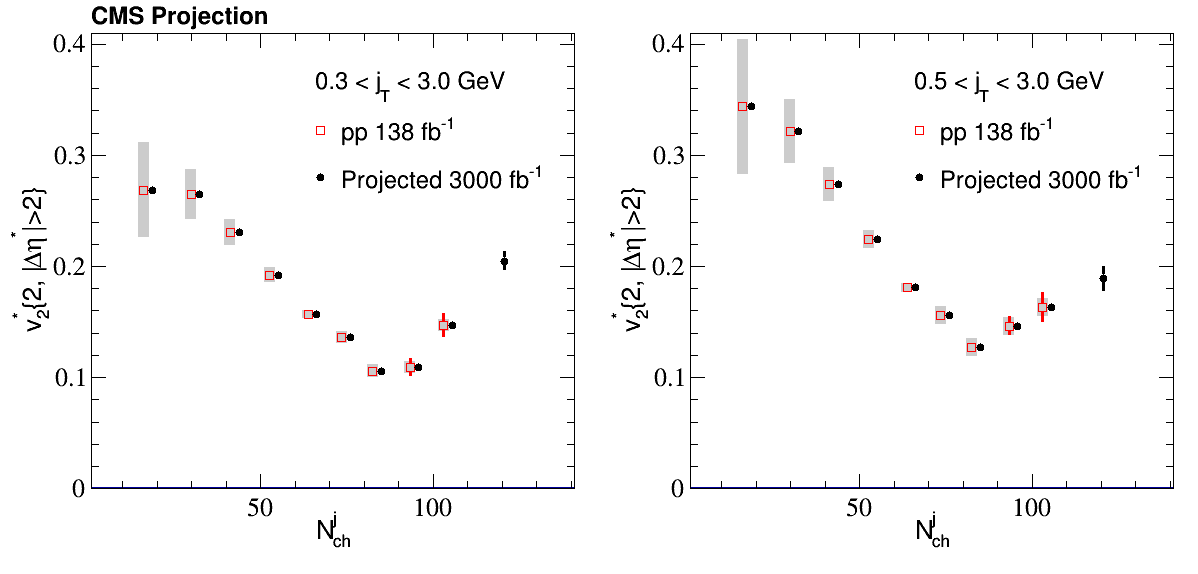
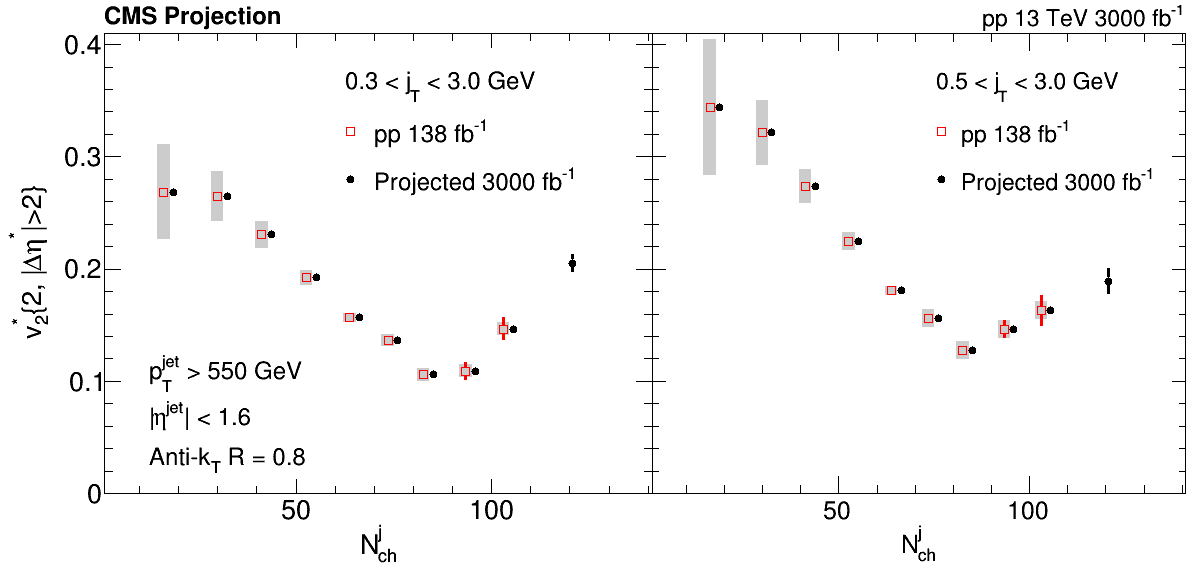
updated with comments

diff --git a/EUstrategy/projection_plot_vn_highNjets.C b/EUstrategy/projection_plot_vn_highNjets.C
@@ -48,9 +48,9 @@ void projection_plot_vn_highNjets(){
     cout<<Nch05[i]<<"  "<<v2_05[i]<<"  "<<v2_05_stat[i]<<"  "<<v2_05_stat_new[i]<<endl;
   }
 
-
+/*
   gStyle->SetPadLeftMargin(0.18);
-  gStyle->SetPadRightMargin(0.14);
+  //gStyle->SetPadRightMargin(0.14);
   gStyle->SetPadBottomMargin(0.10);
   gStyle->SetPadTopMargin(0.10);
   gStyle->SetOptStat(0);  // hide statistics box
@@ -62,7 +62,7 @@ void projection_plot_vn_highNjets(){
   gStyle->SetLabelOffset(0.01,"xyz"); // label offset (to fit bigger font
   gStyle->SetNdivisions(505,"xyz");
   gStyle->SetPalette(1);
-
+*/
   
   TCanvas* c_vn_jet;
   c_vn_jet = new TCanvas("c_vn_jet", "c_vn_jet", 1200, 600);
@@ -70,16 +70,20 @@ void projection_plot_vn_highNjets(){
   c_vn_jet->SetFrameFillColor(0);
   c_vn_jet->SetFrameBorderSize(0);
   c_vn_jet->SetFrameBorderMode(0);
-  gPad->SetTicks(-1);
+  c_vn_jet->SetLeftMargin(0.16);
+  c_vn_jet->SetBottomMargin(0.01);
+  c_vn_jet->SetTopMargin(0.01);
+  c_vn_jet->SetRightMargin(0.01);
+  //gPad->SetTicks(-1);
   gStyle->SetOptStat(0);
-  //c_vn_jet->Divide(2,1,0,0);
-  c_vn_jet->Divide(2,1);
+  c_vn_jet->Divide(2,1,0,0);
+  //c_vn_jet->Divide(2,1);
 
   c_vn_jet->cd(1);
-  gPad->SetLeftMargin(0.14);
+  gPad->SetLeftMargin(0.16);
   gPad->SetBottomMargin(0.14);
   gPad->SetTopMargin(0.05);
-  gPad->SetRightMargin(0.02);
+  //gPad->SetRightMargin(0.02);
   gPad->SetTicks(-1);
   
   
@@ -94,11 +98,13 @@ void projection_plot_vn_highNjets(){
   hist_1->GetYaxis()->SetTitleFont(42);
   hist_1->GetYaxis()->SetTitleSize(0.05);
   hist_1->GetYaxis()->SetLabelSize(0.05);
-  hist_1->GetYaxis()->SetTitleOffset(1.32);
+  hist_1->GetYaxis()->SetTitleOffset(1.43);
+  hist_1->GetYaxis()->SetNdivisions(505);
   hist_1->GetXaxis()->SetTitleFont(42);
   hist_1->GetXaxis()->SetTitleSize(0.05);
   hist_1->GetXaxis()->SetLabelSize(0.05);
-  hist_1->GetXaxis()->SetTitleOffset(0.9);
+  hist_1->GetXaxis()->SetTitleOffset(1.1);
+  hist_1->GetXaxis()->SetNdivisions(505);
   hist_1->SetTitle("");
   hist_1->SetMinimum(0.);
   hist_1->SetMaximum(0.41);
@@ -151,16 +157,19 @@ void projection_plot_vn_highNjets(){
   tex1->SetTextFont(42);
   tex1->SetTextSize(0.045);
   tex1->DrawLatex(0.53,0.85,"0.3 < j_{T} < 3.0 GeV");
+  tex1->DrawLatex(0.23,0.34,"p_{T}^{jet} > 550 GeV");
+  tex1->DrawLatex(0.23,0.26,"|#eta^{jet}| < 1.6");
+  tex1->DrawLatex(0.23,0.19,"Anti-k_{T} R = 0.8");
   tex1->SetTextFont(62);
-  tex1->DrawLatex(0.14,0.965,"CMS Projection");
+  tex1->DrawLatex(0.16,0.965,"CMS Projection");
 
 
 
   c_vn_jet->cd(2);
-  gPad->SetLeftMargin(0.14);
+  //gPad->SetLeftMargin(0.14);
   gPad->SetBottomMargin(0.14);
   gPad->SetTopMargin(0.05);
-  gPad->SetRightMargin(0.02);
+  gPad->SetRightMargin(0.01);
   gPad->SetTicks(-1);
 
   TH1D *hist_2;
@@ -215,11 +224,12 @@ void projection_plot_vn_highNjets(){
   tex2->SetNDC();
   tex2->SetTextFont(42);
   tex2->SetTextSize(0.045);
+  tex2->DrawLatex(0.615,0.962,"pp 13 TeV 3000 fb^{-1}");
   tex2->DrawLatex(0.53,0.85,"0.5 < j_{T} < 3.0 GeV");
 
 
-c_vn_jet->SaveAs("fig_projection_vn_jet.png");
-c_vn_jet->SaveAs("fig_projection_vn_jet.pdf");
+  c_vn_jet->SaveAs("fig_projection_vn_jet.png");
+  c_vn_jet->SaveAs("fig_projection_vn_jet.pdf");
 
 
 }
